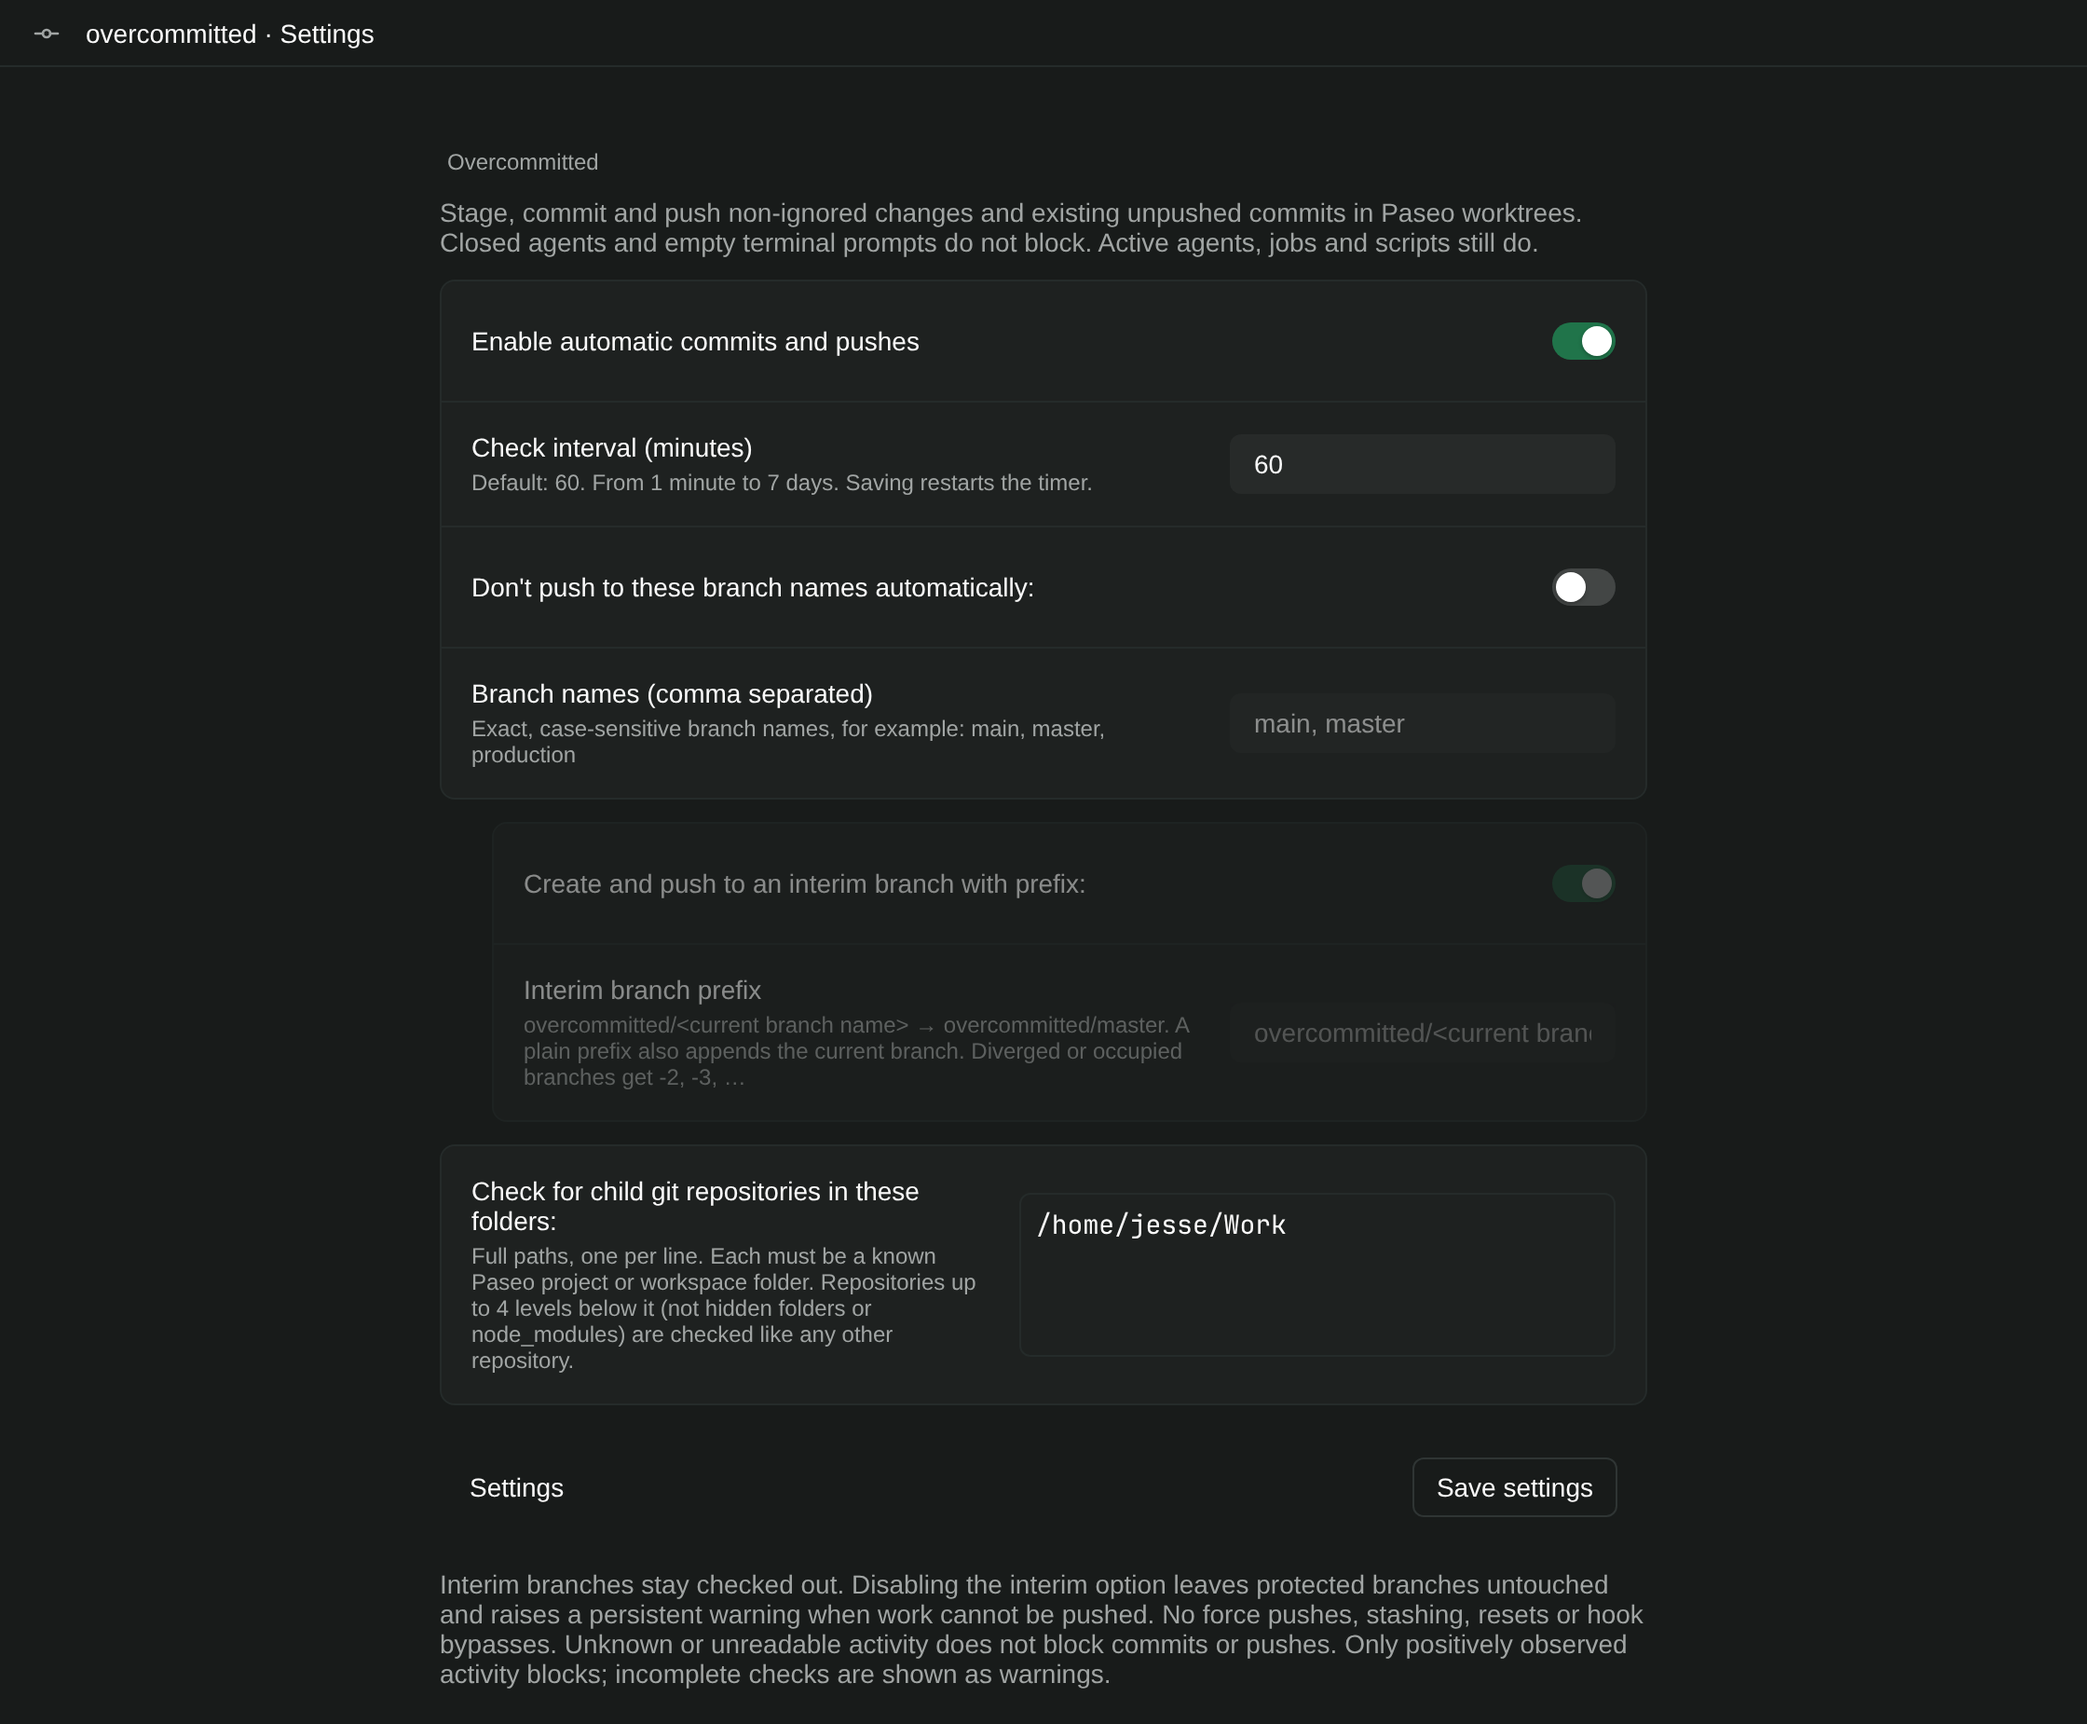
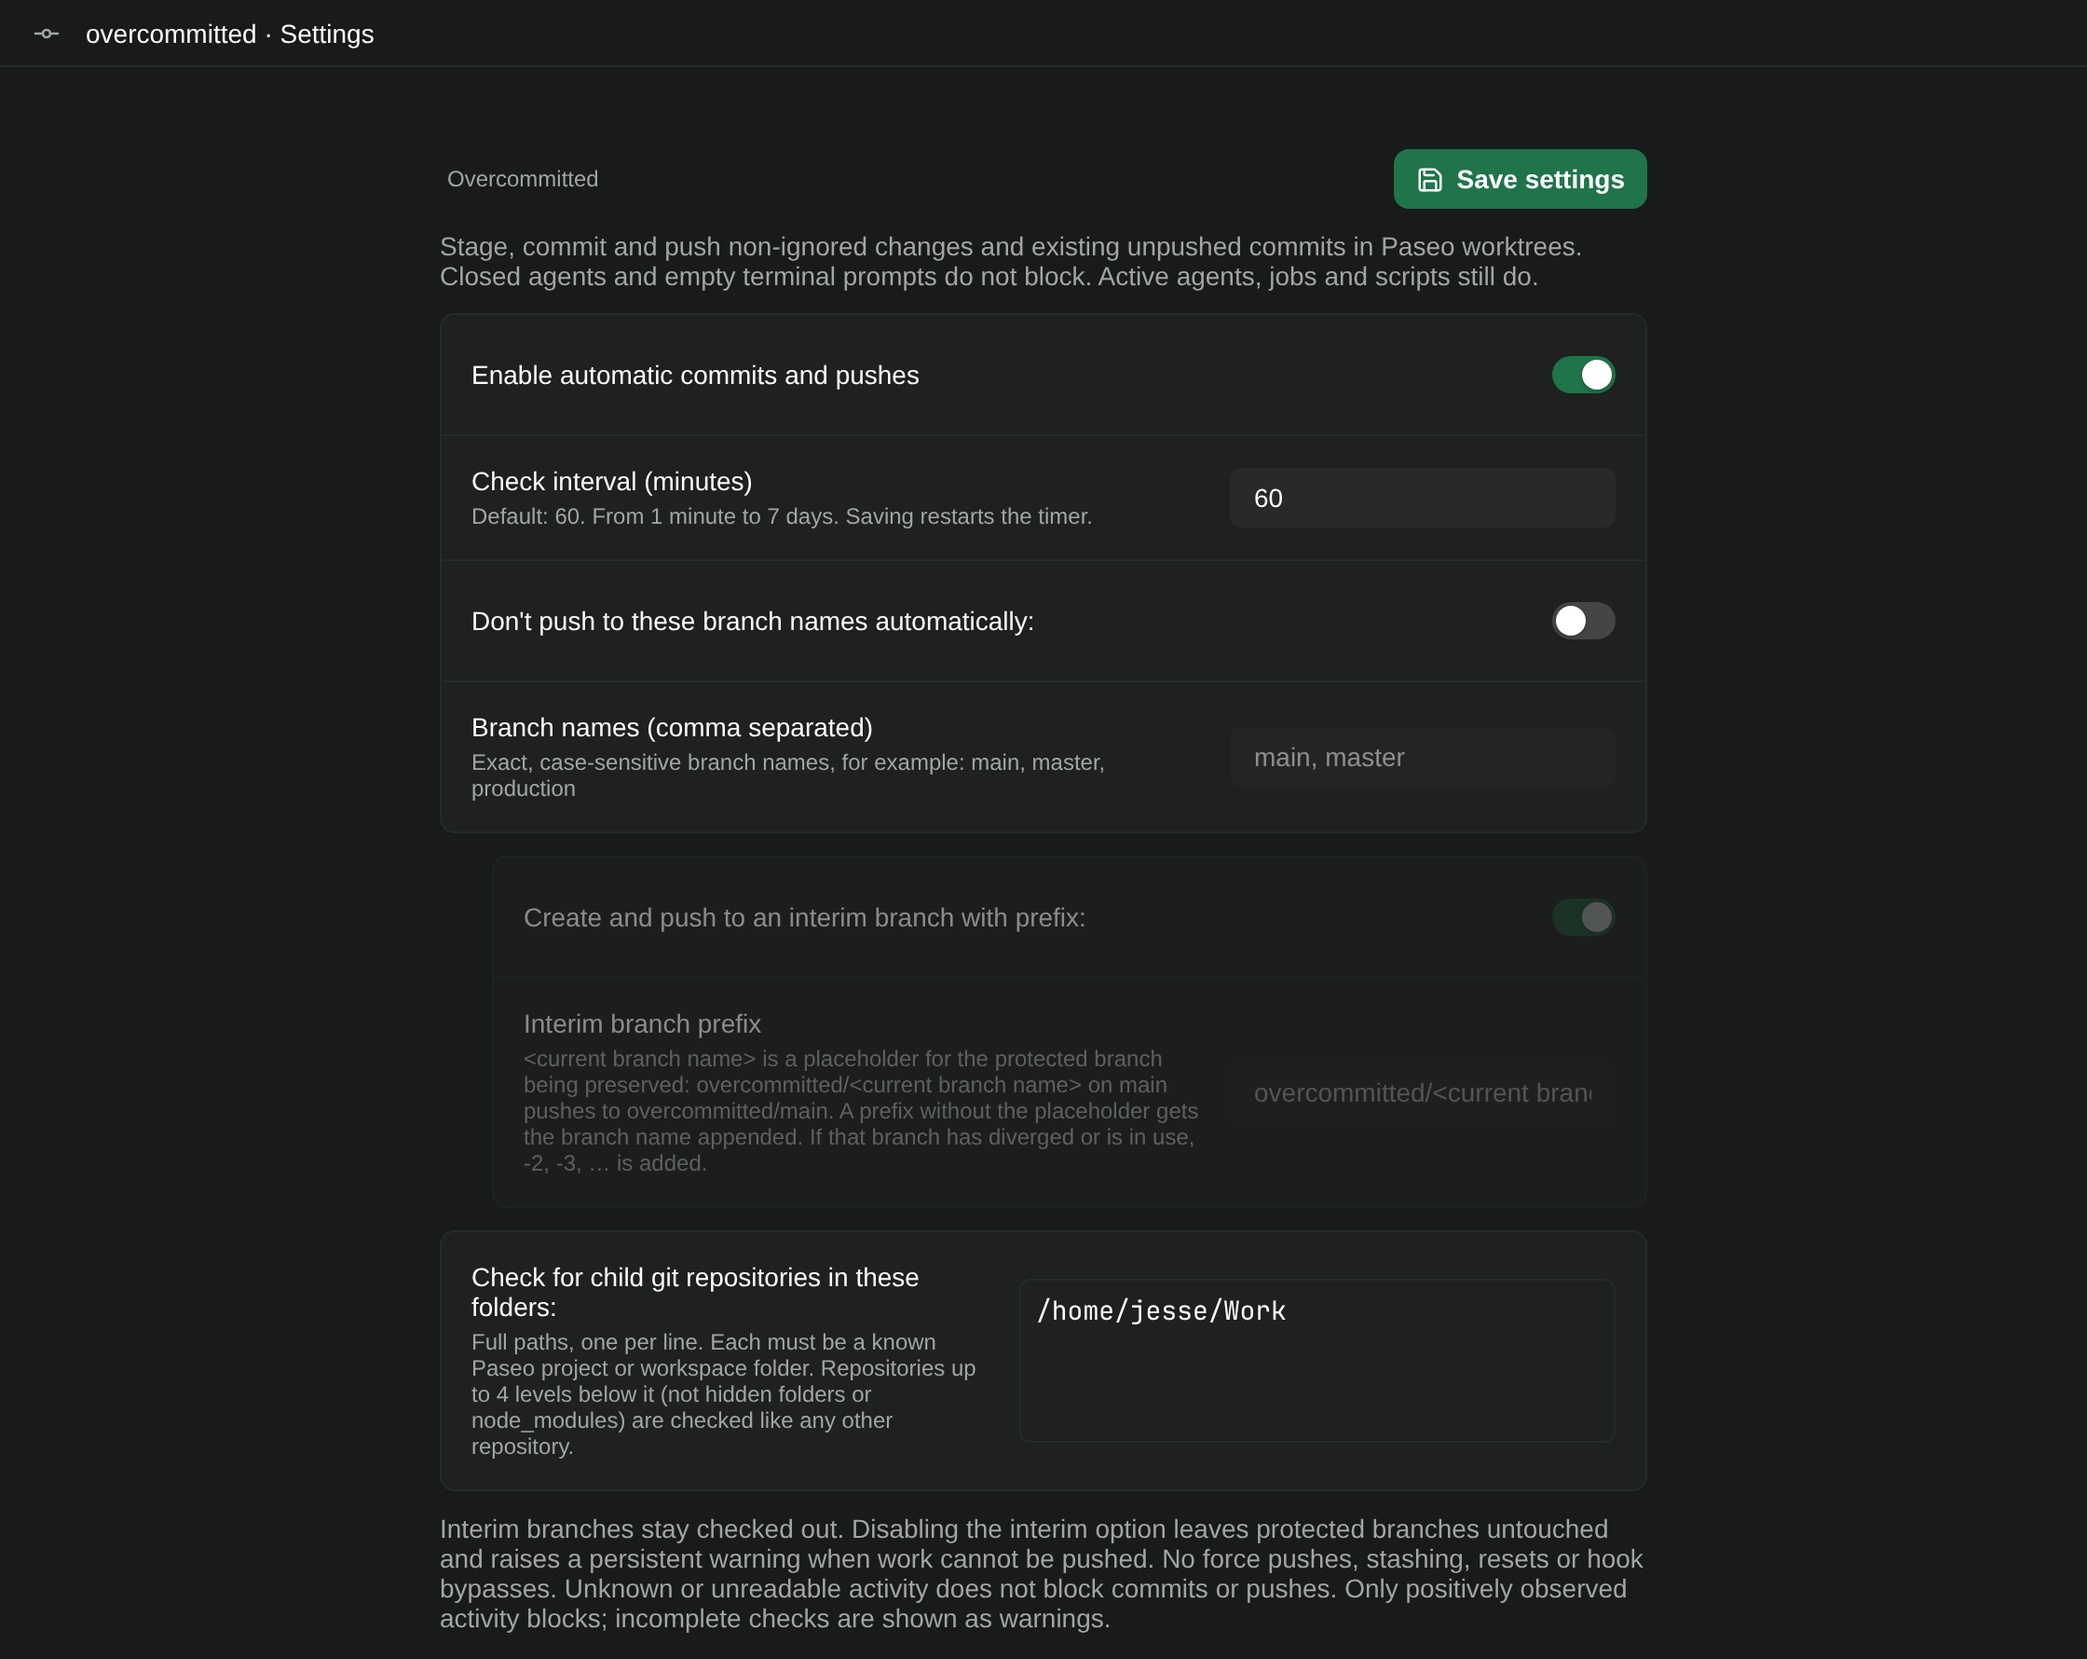
Put Save settings at the top, explain the branch-name placeholder, refresh the README

diff --git a/client/settings.tsx b/client/settings.tsx
@@ -1,7 +1,8 @@
 import { useEffect, useState } from "react";
-import { Text, TextInput, View } from "react-native";
+import { Pressable, Text, TextInput, View } from "react-native";
 import { useRpc, useSettings, type PluginSurfaceProps } from "@getpaseo/plugin/client";
 import { SettingsAction, SettingsCard, SettingsInput, SettingsRow, SettingsSection, SettingsSwitch } from "@getpaseo/plugin/client/ui";
+import { Icon } from "@getpaseo/plugin/client/react-native";
 import { useMutation, useQuery, useQueryClient } from "@tanstack/react-query";
 import { checkRpc, preferences, statusRpc, type Preferences } from "../shared/contracts";
 
@@ -35,8 +36,13 @@ export function Settings({ theme, layout }: PluginSurfaceProps) {
     if (await settings.save(parsed.data, draft.revision)) setSaved(true);
   }
   return <View style={{ gap: 16, padding: layout.compact ? 12 : 20, backgroundColor: theme.colors.surface0 }}>
-    <SettingsSection title="Overcommitted">
+    <SettingsSection title="Overcommitted" trailing={<Pressable accessibilityRole="button" onPress={() => void save()} disabled={settings.saving}
+      style={{ flexDirection: "row", alignItems: "center", gap: 7, backgroundColor: theme.colors.accent, borderRadius: 8, paddingHorizontal: 12, paddingVertical: 8, opacity: settings.saving ? 0.6 : 1 }}>
+      <Icon name="Save" size={15} color={theme.colors.accentForeground} />
+      <Text style={{ color: theme.colors.accentForeground, fontWeight: "700" }}>{settings.saving ? "Saving…" : saved ? "Saved" : "Save settings"}</Text>
+    </Pressable>}>
       <Text style={muted}>Stage, commit and push non-ignored changes and existing unpushed commits in Paseo worktrees. Closed agents and empty terminal prompts do not block. Active agents, jobs and scripts still do.</Text>
+      {validation || settings.saveError ? <Text accessibilityRole="alert" style={text}>{validation || settings.saveError}</Text> : null}
       <SettingsCard>
         <SettingsSwitch label="Enable automatic commits and pushes" value={values.enabled} onValueChange={enabled => change({ enabled })} />
         <SettingsInput label="Check interval (minutes)" initialValue={minutes} onChangeText={setMinutes} hint="Default: 60. From 1 minute to 7 days. Saving restarts the timer." />
@@ -46,7 +52,7 @@ export function Settings({ theme, layout }: PluginSurfaceProps) {
       <View style={{ marginLeft: layout.compact ? 16 : 28, opacity: values.protectBranches ? 1 : 0.5 }}>
         <SettingsCard>
           <SettingsSwitch label="Create and push to an interim branch with prefix:" value={values.useInterimBranch} disabled={!values.protectBranches} onValueChange={useInterimBranch => change({ useInterimBranch })} />
-          <SettingsInput label="Interim branch prefix" initialValue={values.interimPrefix} disabled={!values.protectBranches || !values.useInterimBranch} onChangeText={interimPrefix => change({ interimPrefix })} hint="overcommitted/<current branch name> → overcommitted/master. A plain prefix also appends the current branch. Diverged or occupied branches get -2, -3, …" />
+          <SettingsInput label="Interim branch prefix" initialValue={values.interimPrefix} disabled={!values.protectBranches || !values.useInterimBranch} onChangeText={interimPrefix => change({ interimPrefix })} hint="<current branch name> is a placeholder for the protected branch being preserved: overcommitted/<current branch name> on main pushes to overcommitted/main. A prefix without the placeholder gets the branch name appended. If that branch has diverged or is in use, -2, -3, … is added." />
         </SettingsCard>
       </View>
       <SettingsCard>
@@ -55,9 +61,6 @@ export function Settings({ theme, layout }: PluginSurfaceProps) {
             style={{ minHeight: 88, minWidth: layout.compact ? undefined : 320, textAlignVertical: "top", color: theme.colors.foreground, backgroundColor: theme.colors.surface1, borderColor: theme.colors.border, borderWidth: 1, borderRadius: 6, padding: 8, fontFamily: "monospace" }} />
         </SettingsRow>
       </SettingsCard>
-      <SettingsAction label="Settings" actionLabel={settings.saving ? "Saving…" : "Save settings"} onPress={save} disabled={settings.saving} />
-      {validation || settings.saveError ? <Text style={text}>{validation || settings.saveError}</Text> : null}
-      {saved ? <Text style={muted}>Saved.</Text> : null}
       <Text style={muted}>Interim branches stay checked out. Disabling the interim option leaves protected branches untouched and raises a persistent warning when work cannot be pushed. No force pushes, stashing, resets or hook bypasses. Unknown or unreadable activity does not block commits or pushes. Only positively observed activity blocks; incomplete checks are shown as warnings.</Text>
     </SettingsSection>
     <SettingsSection title="Checks">

diff --git a/README.md b/README.md
@@ -12,18 +12,21 @@
 
 </div>
 
-Keep idle Paseo projects and worktrees committed and pushed. Overcommitted checks registered repositories on a schedule, observes work in progress, and gives unpushed work a visible place in the app.
+💾 Ever lost an afternoon of agent work because nobody committed it?
+
+⏰ Overcommitted checks your Paseo projects and worktrees on a schedule, then commits and pushes anything left sitting there. 🛡 It waits while an agent, script or terminal is busy. It can route protected branches like `main` to an interim branch instead. ⚠ If something can't be pushed, it stays flagged in the sidebar until you deal with it.
 
 ## Features
 
 | Feature | What you get |
 | --- | --- |
-| Scheduled Git housekeeping | Configurable checks; default interval is 60 minutes |
-| Activity-aware operations | Observed agent, script, terminal, and Linux process activity defers work |
-| Branch routing | Optional protected-branch rules and interim branches |
-| Persistent failures | Unpushed work stays visible across reloads and later checks |
-| Preview mode | Inspect eligibility without staging, committing, or pushing |
-| Local commit messages | Task titles, changed paths, and diff statistics; no model calls |
+| ⏰ Scheduled Git housekeeping | Checks every 60 minutes by default, from 1 minute to 7 days |
+| 👀 Activity-aware | Busy agents, scripts, terminals and processes put a repo off until later |
+| 🔀 Branch routing | Protect branches like `main` and push their work to `overcommitted/main` instead |
+| 🗂 Nested repos | Optionally sweeps Git repos inside a project folder |
+| ⚠ Persistent warnings | Unpushed work stays visible across reloads until it's resolved |
+| 🔍 Preview mode | See what would happen without staging, committing or pushing |
+| ✍ Local commit messages | Built from task titles, changed paths and diff stats. No model calls |
 
 ## How it fits
 
@@ -49,7 +52,7 @@ npm run typecheck
 paseo plugin install "$PWD"
 ```
 
-Open **Settings → Plugins → Overcommitted → Settings**. Start with **Preview**, inspect the eligible repositories, then use **Check now** when you are ready. Automatic checks default on; the first scheduled check happens after one interval. Branch-name protection is an opt-in setting.
+Open **Settings → Plugins → Overcommitted → Settings**. Start with **Preview**, inspect the eligible repositories, then use **Check now** when you are ready. Automatic checks default on; the first scheduled check happens after one interval. Branch-name protection is opt-in. In the interim prefix, `<current branch name>` is a placeholder for the protected branch's name: `overcommitted/<current branch name>` turns `main` into `overcommitted/main`. **Save settings** is at the top of the page. Leave settings with **← Back** or <kbd>Esc</kbd>.
 
 ![Overcommitted settings in Paseo: automatic commits, check interval, protected branch names, interim branch prefix and child repository folders](docs/media/settings.png)
 

diff --git a/docs/REFERENCE.md b/docs/REFERENCE.md
@@ -9,7 +9,7 @@ Open **Settings → Plugins → Overcommitted → ⋯ → Settings**, or **Overc
 - Enable/disable automatic commits and pushes (default on).
 - Check interval: 1–10,080 minutes, default 60. Saving restarts the timer; the first check is after one interval, not immediately at install.
 - **Don't push to these branch names automatically:** enable the rule, then enter a comma-separated list of exact, case-sensitive names. The suggested list is `main, master`; the rule is initially off.
-- Indented **Create and push to an interim branch with prefix:** only available when the branch rule is enabled. Defaults to `overcommitted/<current branch name>` (e.g. `overcommitted/master`). A plain prefix also appends the source branch name. If this option is off, protected branches stay untouched; any unpushed work triggers the persistent **Work not pushed** warning with instructions to enable interim routing or push manually.
+- Indented **Create and push to an interim branch with prefix:** only available when the branch rule is enabled. Defaults to `overcommitted/<current branch name>`. `<current branch name>` is a placeholder replaced with the protected branch's name, so `master` becomes `overcommitted/master`. A plain prefix also appends the source branch name. If this option is off, protected branches stay untouched; any unpushed work triggers the persistent **Work not pushed** warning with instructions to enable interim routing or push manually.
 - **Check for child git repositories in these folders:** full paths, one per line (blank lines ignored; relative paths are rejected on save). A listed folder is scanned only if it is a known Paseo project root or workspace directory; otherwise the check reports it as skipped. Git repositories (a `.git` directory or worktree file) up to 4 levels below it are added to the check and treated exactly like registered repositories. The folder itself gets a **SCANNED** row listing what it found, instead of a "not a Git worktree" skip. Hidden folders, `node_modules`, symlinks and repositories nested inside other repositories are not scanned. Empty by default.
 - **Preview** checks eligibility without staging, committing, switching or pushing. **Check now** performs the operation immediately. Both use the *saved* settings. Results and skip/error reasons appear below the controls and in plugin logs.
 
